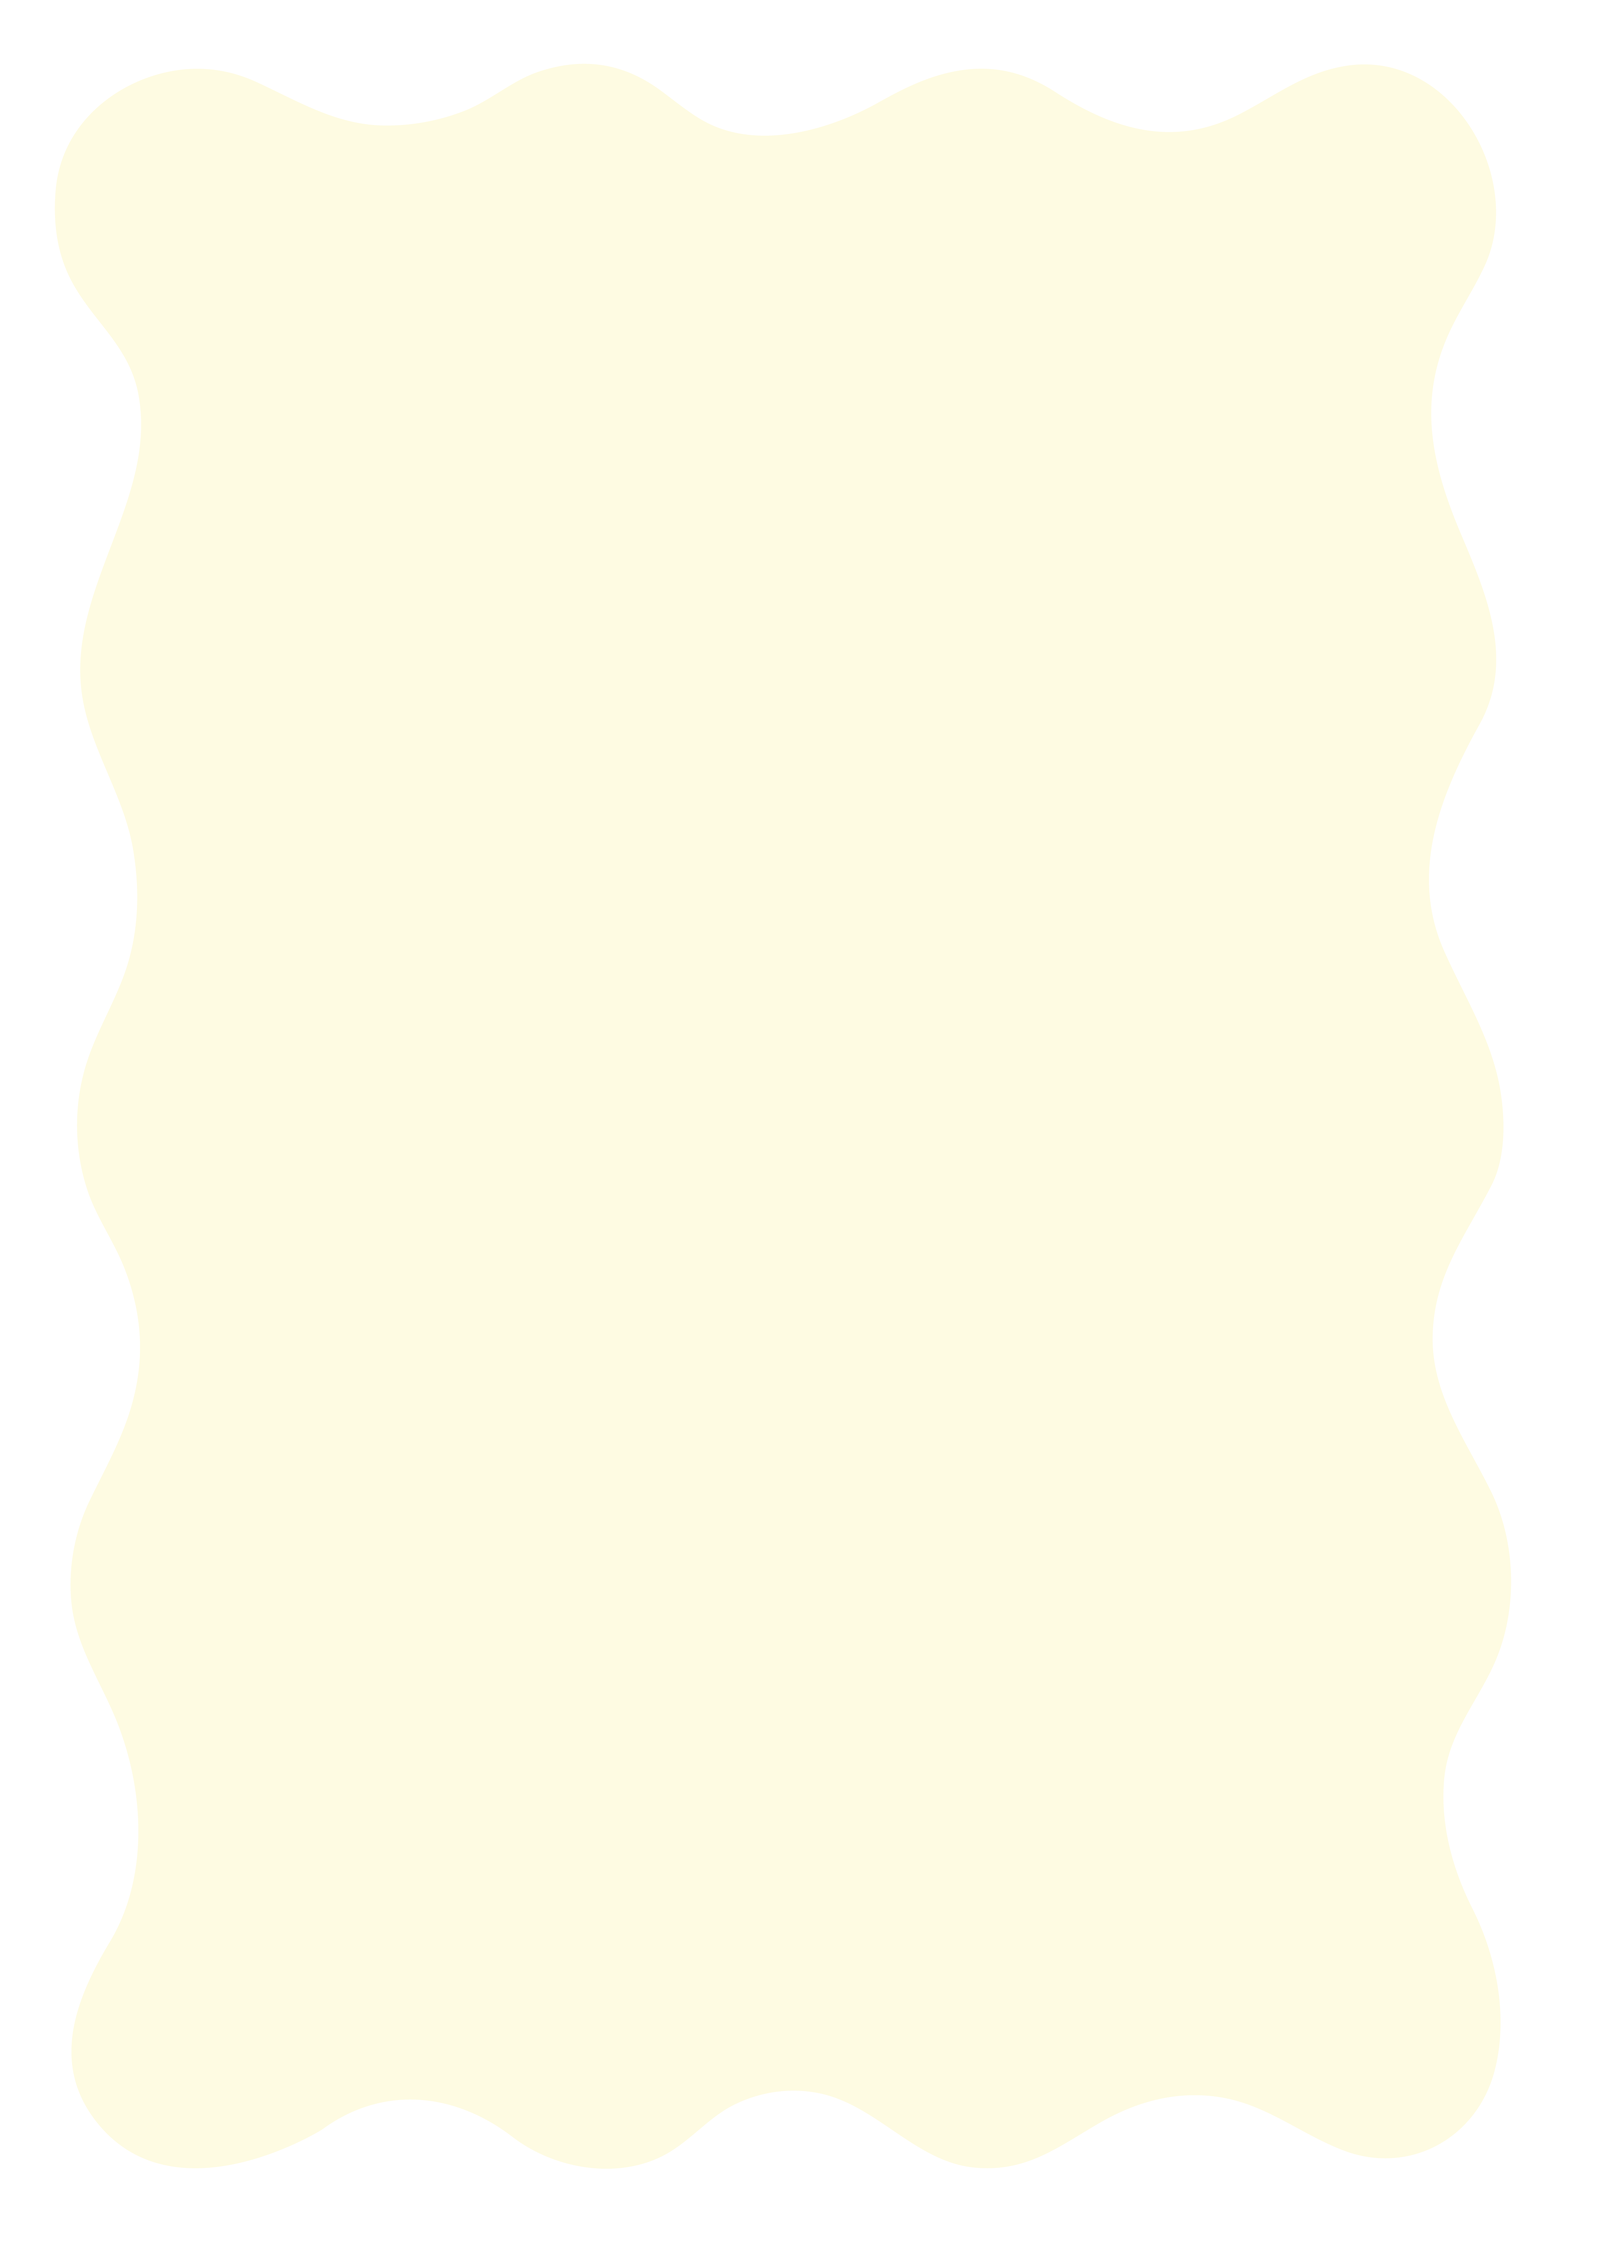
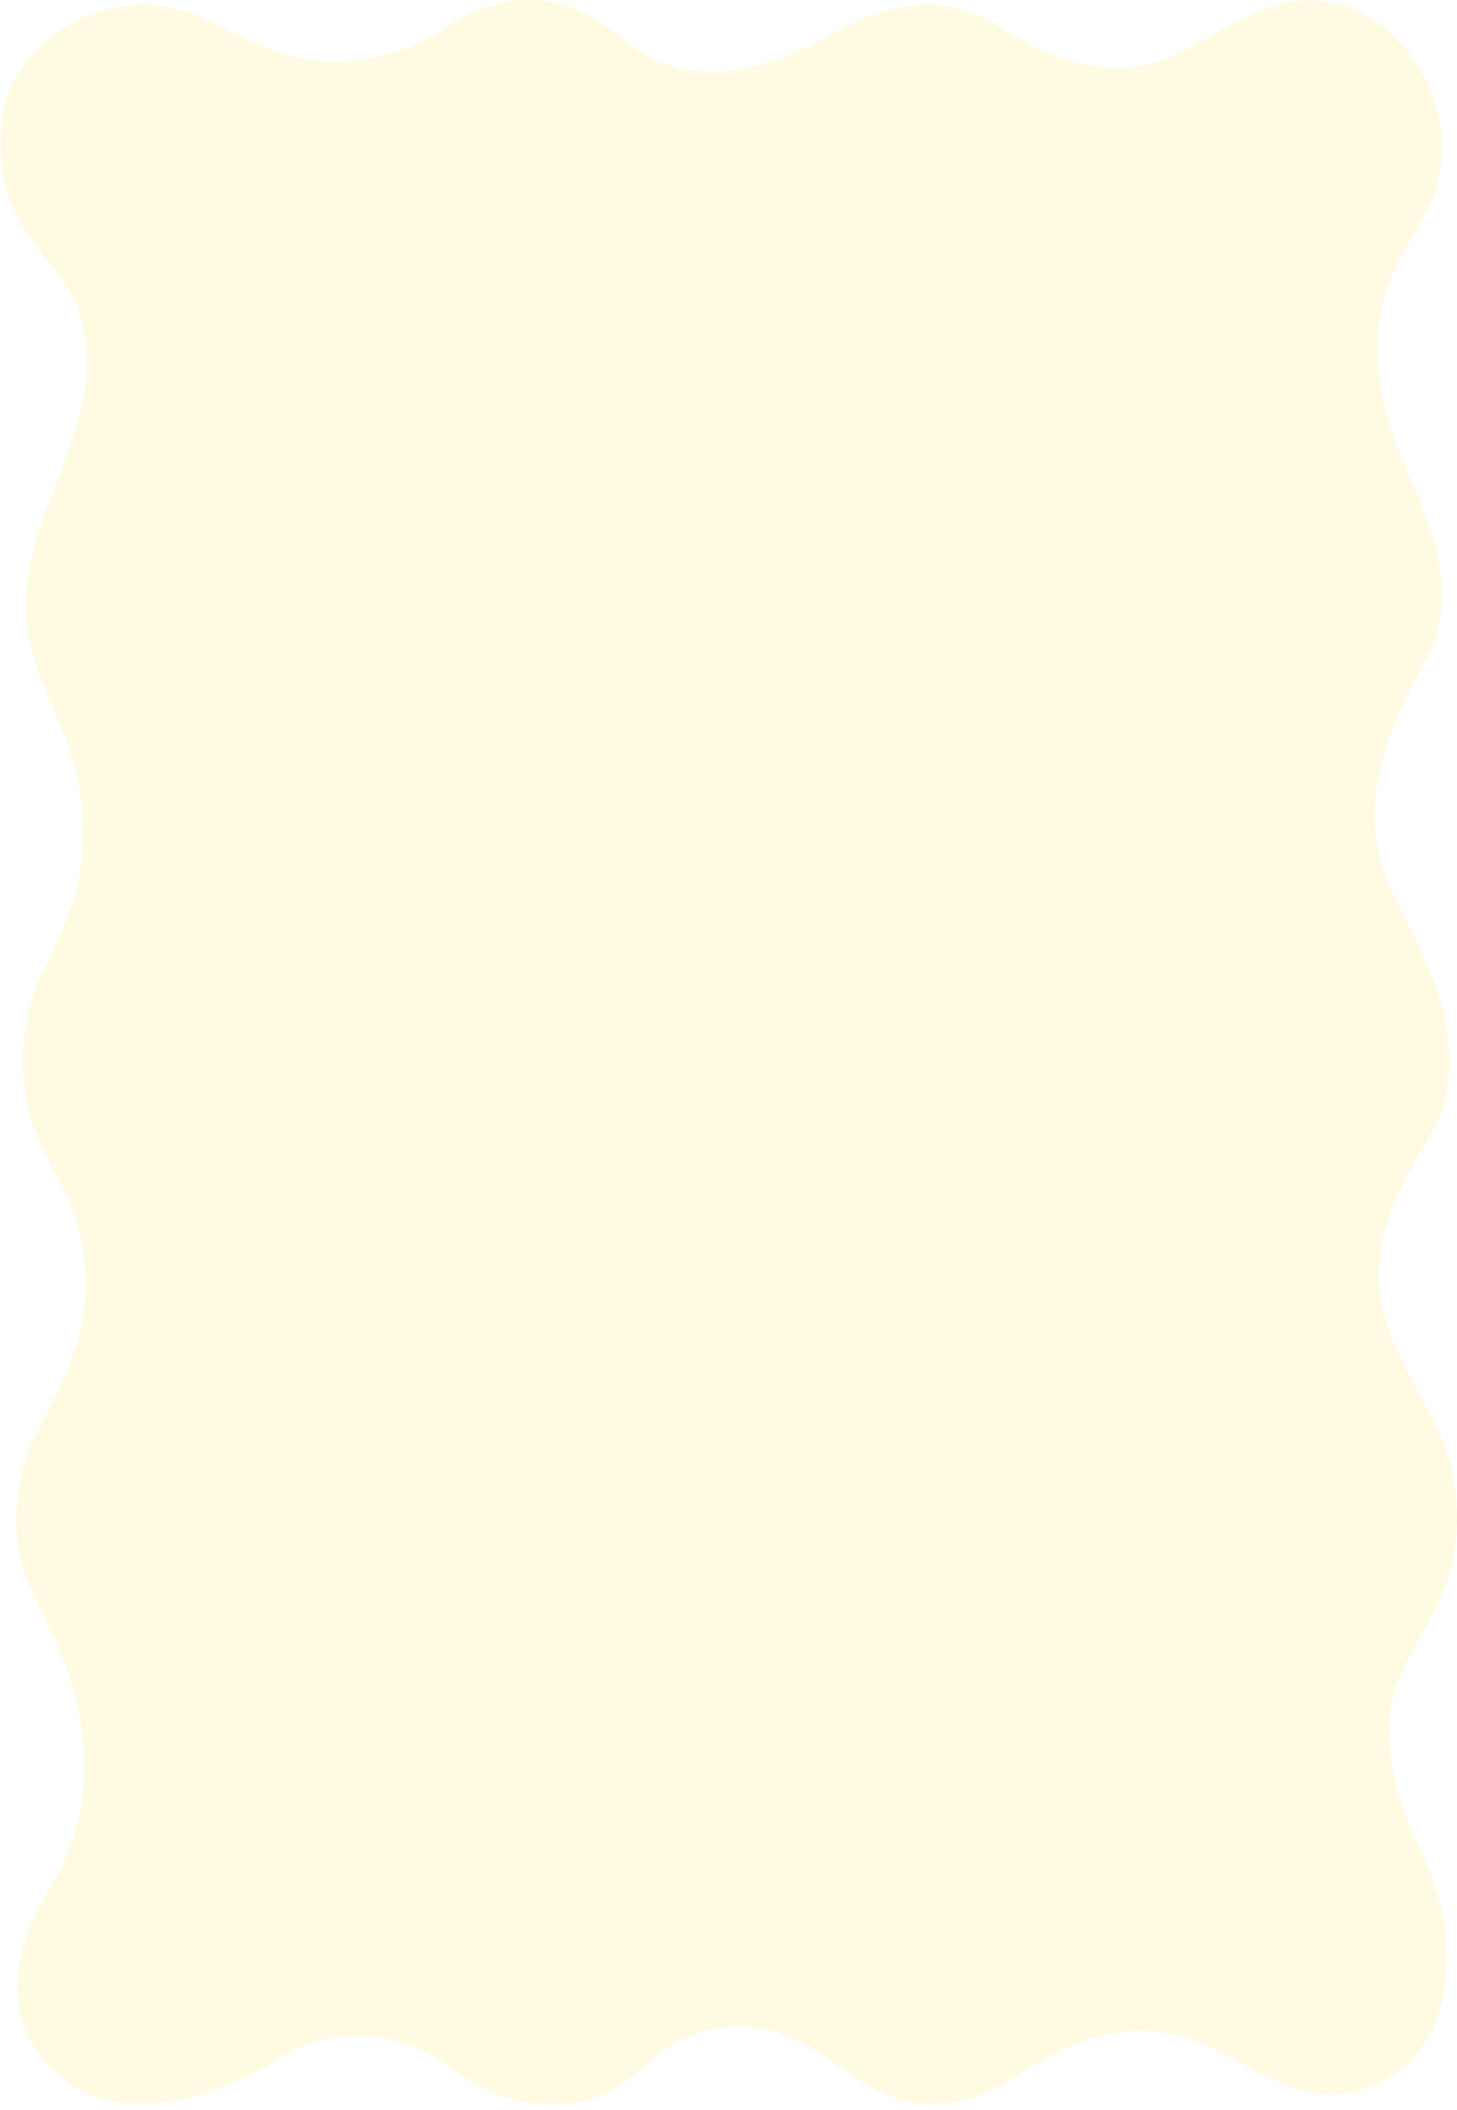
aplicando fondo ondulado

Changed region(s): [[0.0, 0.0, 1.0, 1.0], [0.0, 0.0, 0.8068, 0.1556]]

diff --git a/src/components/HeroSection.vue b/src/components/HeroSection.vue
@@ -8,7 +8,7 @@
       </div>
     </div>
 
-    <div class="section-container">
+    <div class="section-container date-container">
       <div class="glass-card date-card">
         <div class="date-container">
           <p class="wedding-date-text">{{ formattedDate }}</p>
@@ -136,21 +136,27 @@ const googleCalendarUrl = computed(() => {
   }
 }
 
+// Make the section-container full-width for this component only
+.date-container {
+  max-width: 100%;
+  padding: 0;
+}
+
 .date-card {
   margin-top: -2.8rem;
   position: relative;
   z-index: 3;
-  background-color: $color-card-bg;
+  background-color: transparent !important;
+  background-image: url('/images/beige-back.png');
+  background-size: 100% 100%;
+  background-repeat: no-repeat;
 
-  @media (min-width: $breakpoint-tablet) {
-    margin-top: -4rem;
-  }
+  // Overflow both sides so scalloped edges go off-screen, stays centered
+  width: 130%;
+  margin-left: -15%;
 }
 
 .date-container {
-  
-  margin: 1rem;
-
   .wedding-date-text {
     font-family: $font-title;
     font-size: 1.25rem;
